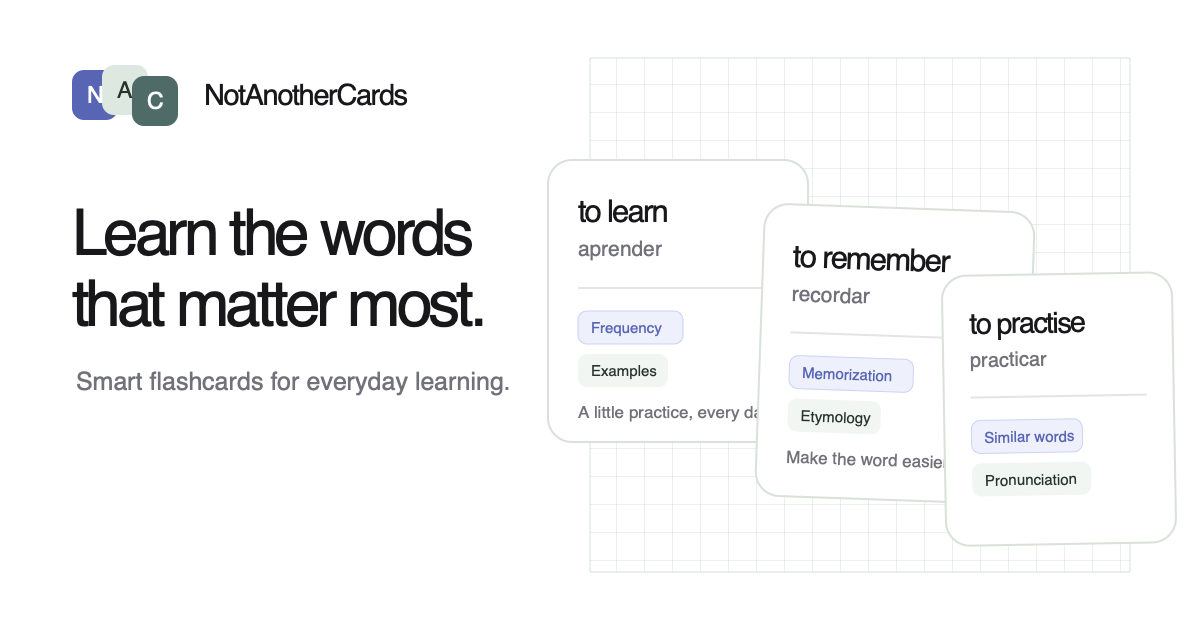
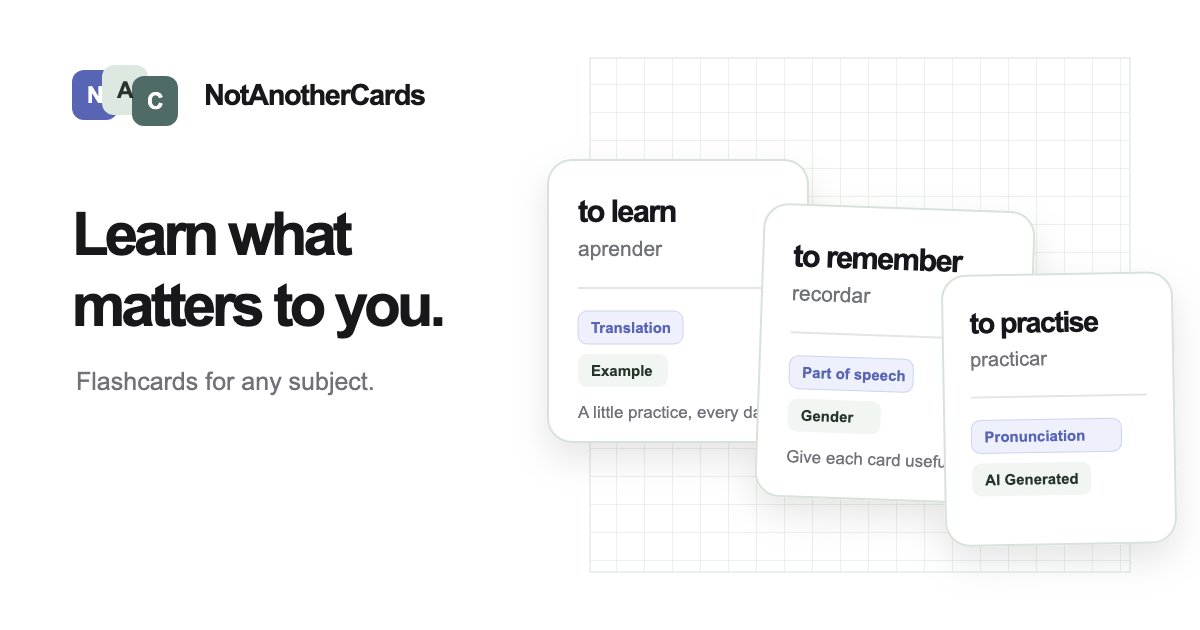
fix(landing): polish responsive branding and copy

diff --git a/apps/landing/src/App.tsx b/apps/landing/src/App.tsx
@@ -3,6 +3,7 @@ import { MessageCircle } from 'lucide-react';
 import { Button } from '@/components/ui/button';
 
 const APP_URL = 'https://app.notanothercards.com';
+const GITHUB_URL = 'https://github.com/NotAnotherCards/NotAnotherCards';
 
 export function App() {
   if (window.location.pathname === '/') {
@@ -17,17 +18,7 @@ function LandingPage() {
     <main>
       <header className="mx-auto flex max-w-6xl items-center justify-between gap-3 border-b border-border px-5 py-5 sm:px-8">
         <a className="min-w-0" href="/" aria-label="NotAnotherCards home">
-          <picture>
-            <source
-              media="(prefers-color-scheme: dark)"
-              srcSet="/brand/notanothercards-logo-dark.svg"
-            />
-            <img
-              className="h-[44px] w-[346px] max-w-[calc(100vw-14rem)] sm:max-w-none"
-              src="/brand/notanothercards-logo.svg"
-              alt="NotAnotherCards"
-            />
-          </picture>
+          <BrandLogo />
         </a>
         <nav
           className="flex shrink-0 items-center gap-2"
@@ -45,11 +36,11 @@ function LandingPage() {
       <section className="hero-section">
         <div className="hero-copy">
           <h1 className="text-balance text-5xl font-semibold tracking-[-0.065em] text-foreground sm:text-6xl">
-            Learn the words that matter most.
+            Learn what matters to you.
           </h1>
           <p className="mx-auto mt-7 max-w-lg text-lg leading-8 text-muted sm:text-xl">
-            Build real vocabulary with focused flashcards, helpful context, and
-            short sessions that fit your day.
+            Create flashcards for any subject, review them over time, and build
+            a learning habit that fits your day.
           </p>
           <Button asChild size="lg" className="mt-8 h-12 px-5 text-base">
             <a href={`${APP_URL}/register`}>Get started free</a>
@@ -64,7 +55,7 @@ function LandingPage() {
             <div className="my-5 border-t border-border" />
             <div className="learning-card-labels flex gap-2 text-xs font-medium">
               <span className="rounded-md border border-primary/20 bg-primary/10 px-2 py-1 font-semibold text-primary">
-                Frequency
+                Translation
               </span>
               <span className="card-secondary-label rounded-md border border-sage-border bg-surface px-2 py-1">
                 Examples
@@ -86,18 +77,18 @@ function LandingPage() {
             <div className="my-5 border-t border-border" />
             <div className="learning-card-labels flex gap-2 text-xs font-medium">
               <span className="rounded-md border border-primary/20 bg-primary/10 px-2 py-1 font-semibold text-primary">
-                Memorization
+                Part of speech
               </span>
               <span className="card-secondary-label rounded-md border border-sage-border bg-surface px-2 py-1">
-                Etymology
+                Gender
               </span>
             </div>
             <p className="mt-3 text-sm leading-5 text-muted">
-              Make the word
+              Give each card
               <span className="card-overlap-break">
                 <br />
               </span>{' '}
-              <span className="whitespace-nowrap">easier to recall.</span>
+              <span className="whitespace-nowrap">useful details.</span>
             </p>
           </article>
           <article className="learning-card learning-card-three z-30 -rotate-[1deg] rounded-2xl border border-sage-border bg-background p-5 shadow-card sm:p-6">
@@ -108,15 +99,14 @@ function LandingPage() {
             <div className="my-5 border-t border-border" />
             <div className="learning-card-labels flex gap-2 text-xs font-medium">
               <span className="rounded-md border border-primary/20 bg-primary/10 px-2 py-1 font-semibold text-primary">
-                Similar words
+                Pronunciation
               </span>
               <span className="card-secondary-label rounded-md border border-sage-border bg-surface px-2 py-1">
-                Pronunciation
+                AI Generated
               </span>
             </div>
             <p className="mt-3 text-sm leading-5 text-muted">
-              Notice links{' '}
-              <span className="whitespace-nowrap">between languages.</span>
+              Review at a pace that works for you.
             </p>
           </article>
           <p className="session-badge z-40 rounded-xl border border-border bg-background px-4 py-3 text-sm text-muted shadow-card">
@@ -128,7 +118,7 @@ function LandingPage() {
       <section className="border-y border-sage-border bg-surface">
         <div className="mx-auto max-w-6xl px-5 py-16 sm:px-8 lg:py-24">
           <h2 className="mx-auto text-center text-3xl font-semibold tracking-[-0.05em] sm:text-4xl">
-            Designed to make every word useful.
+            Designed to help you remember.
           </h2>
           <div className="mt-10 grid gap-5 md:grid-cols-3">
             <ValueProposition
@@ -138,8 +128,8 @@ function LandingPage() {
             />
             <ValueProposition
               icon={<span className="text-2xl leading-none">✦</span>}
-              title="More than a translation"
-              description="AI adds frequency, origins, examples, language connections, and memory cues that make a word stick."
+              title="Useful word details"
+              description="Word cards can include a translation, example, part of speech, gender, and pronunciation."
             />
             <ValueProposition
               icon={
@@ -148,7 +138,7 @@ function LandingPage() {
                 </span>
               }
               title="Study offline. Sync later."
-              description="Keep learning without internet. Your progress synchronizes across devices when you reconnect."
+              description="Keep learning on the web and mobile without internet. Your cards and progress synchronize when you reconnect."
             />
           </div>
         </div>
@@ -160,8 +150,9 @@ function LandingPage() {
             More than individual words
           </h2>
           <p className="mt-5 text-lg leading-8 text-muted">
-            Use cards for vocabulary, phrases, grammar — and any ideas, facts,
-            or information you want to remember.
+            Create cards for vocabulary, phrases, grammar, ideas, facts, and
+            any information you want to remember. Use your own cards or shared
+            decks.
           </p>
         </div>
         <ul
@@ -224,17 +215,7 @@ function NotFoundPage() {
     <main className="flex min-h-screen flex-col">
       <header className="mx-auto flex w-full max-w-6xl items-center justify-between gap-3 border-b border-border px-5 py-5 sm:px-8">
         <a className="min-w-0" href="/" aria-label="NotAnotherCards home">
-          <picture>
-            <source
-              media="(prefers-color-scheme: dark)"
-              srcSet="/brand/notanothercards-logo-dark.svg"
-            />
-            <img
-              className="h-[44px] w-[346px] max-w-[calc(100vw-14rem)] sm:max-w-none"
-              src="/brand/notanothercards-logo.svg"
-              alt="NotAnotherCards"
-            />
-          </picture>
+          <BrandLogo />
         </a>
         <nav
           className="flex shrink-0 items-center gap-2"
@@ -283,6 +264,23 @@ function NotFoundPage() {
   );
 }
 
+function BrandLogo() {
+  return (
+    <picture>
+      <source media="(max-width: 375px)" srcSet="/brand/notanothercards-mark.svg" />
+      <source
+        media="(prefers-color-scheme: dark)"
+        srcSet="/brand/notanothercards-logo-dark.svg"
+      />
+      <img
+        className="brand-logo h-[44px] w-[346px] max-w-[calc(100vw-14rem)] sm:max-w-none"
+        src="/brand/notanothercards-logo.svg"
+        alt="NotAnotherCards"
+      />
+    </picture>
+  );
+}
+
 function useNotFoundPageMetadata() {
   useEffect(() => {
     const originalTitle = document.title;
@@ -300,6 +298,13 @@ function LandingFooter() {
       <span>© 2026 NotAnotherCards</span>
       <span aria-hidden="true">·</span>
       <span>Learn at your own pace.</span>
+      <span aria-hidden="true">·</span>
+      <a
+        className="underline underline-offset-4 hover:text-foreground"
+        href={GITHUB_URL}
+      >
+        Free and open source
+      </a>
       <span aria-hidden="true">·</span>
       <a
         className="underline underline-offset-4 hover:text-foreground"

diff --git a/apps/landing/src/App.test.tsx b/apps/landing/src/App.test.tsx
@@ -68,6 +68,45 @@ describe('App', () => {
     ).toHaveAttribute('href', '/terms');
   });
 
+  it('uses the mark-only logo at 375px while preserving its accessible name', () => {
+    render(<App />);
+
+    const logo = screen.getByRole('img', { name: 'NotAnotherCards' });
+    const sources = logo.parentElement?.querySelectorAll('source');
+
+    expect(sources?.[0]).toHaveAttribute('media', '(max-width: 375px)');
+    expect(sources?.[0]).toHaveAttribute(
+      'srcset',
+      '/brand/notanothercards-mark.svg',
+    );
+    expect(sources?.[1]).toHaveAttribute(
+      'media',
+      '(prefers-color-scheme: dark)',
+    );
+    expect(sources?.[1]).toHaveAttribute(
+      'srcset',
+      '/brand/notanothercards-logo-dark.svg',
+    );
+  });
+
+  it('renders the requested landing copy and links to the open-source repository', () => {
+    render(<App />);
+
+    expect(screen.getByText('Learn words you will use')).toBeInTheDocument();
+    expect(screen.getByText('Useful word details')).toBeInTheDocument();
+    expect(screen.getByText('Study offline. Sync later.')).toBeInTheDocument();
+    expect(screen.getByText(/high-frequency vocabulary/i)).toBeInTheDocument();
+    expect(screen.queryByText('Etymology')).not.toBeInTheDocument();
+    expect(
+      screen.getByRole('link', {
+        name: 'Free and open source',
+      }),
+    ).toHaveAttribute(
+      'href',
+      'https://github.com/NotAnotherCards/NotAnotherCards',
+    );
+  });
+
   it('ships a static privacy policy for Meta crawlers', () => {
     const privacyDocument = new DOMParser().parseFromString(
       privacyHtml,
@@ -164,14 +203,14 @@ describe('App', () => {
     );
 
     expect(metadataDocument.title).toBe(
-      'NotAnotherCards — Learn the words that matter most',
+      'NotAnotherCards — Learn what matters to you',
     );
     expect(
       metadataDocument
         .querySelector('meta[name="description"]')
         ?.getAttribute('content'),
     ).toBe(
-      'Build useful vocabulary with smart flashcards, AI-powered context, offline learning, and sync across devices.',
+      'Create flashcards for any subject, review them over time, and sync your learning on web and mobile.',
     );
     expect(
       metadataDocument
@@ -202,7 +241,7 @@ describe('App', () => {
       metadataDocument
         .querySelector('meta[property="og:image:alt"]')
         ?.getAttribute('content'),
-    ).toBe('NotAnotherCards flashcards for learning useful vocabulary');
+    ).toBe('NotAnotherCards flashcards for any subject');
     expect(
       existsSync(resolve(process.cwd(), 'public/brand/og-image.png')),
     ).toBe(true);

diff --git a/apps/landing/index.html b/apps/landing/index.html
@@ -5,7 +5,7 @@
     <meta name="viewport" content="width=device-width, initial-scale=1.0" />
     <meta
       name="description"
-      content="Build useful vocabulary with smart flashcards, AI-powered context, offline learning, and sync across devices."
+      content="Create flashcards for any subject, review them over time, and sync your learning on web and mobile."
     />
     <meta
       name="theme-color"
@@ -23,11 +23,11 @@
     <meta property="og:url" content="https://notanothercards.com/" />
     <meta
       property="og:title"
-      content="NotAnotherCards — Learn the words that matter most"
+      content="NotAnotherCards — Learn what matters to you"
     />
     <meta
       property="og:description"
-      content="Build useful vocabulary with smart flashcards, AI-powered context, offline learning, and sync across devices."
+      content="Create flashcards for any subject, review them over time, and sync your learning on web and mobile."
     />
     <meta
       property="og:image"
@@ -37,9 +37,9 @@
     <meta property="og:image:height" content="630" />
     <meta
       property="og:image:alt"
-      content="NotAnotherCards flashcards for learning useful vocabulary"
+      content="NotAnotherCards flashcards for any subject"
     />
-    <title>NotAnotherCards — Learn the words that matter most</title>
+    <title>NotAnotherCards — Learn what matters to you</title>
   </head>
   <body>
     <div id="app"></div>

diff --git a/apps/landing/src/style.css b/apps/landing/src/style.css
@@ -57,6 +57,12 @@
   color: var(--sage-foreground);
 }
 
+@media (max-width: 375px) {
+  .brand-logo {
+    width: 76px;
+  }
+}
+
 @media (prefers-color-scheme: dark) {
   .card-secondary-label {
     color: var(--foreground);
